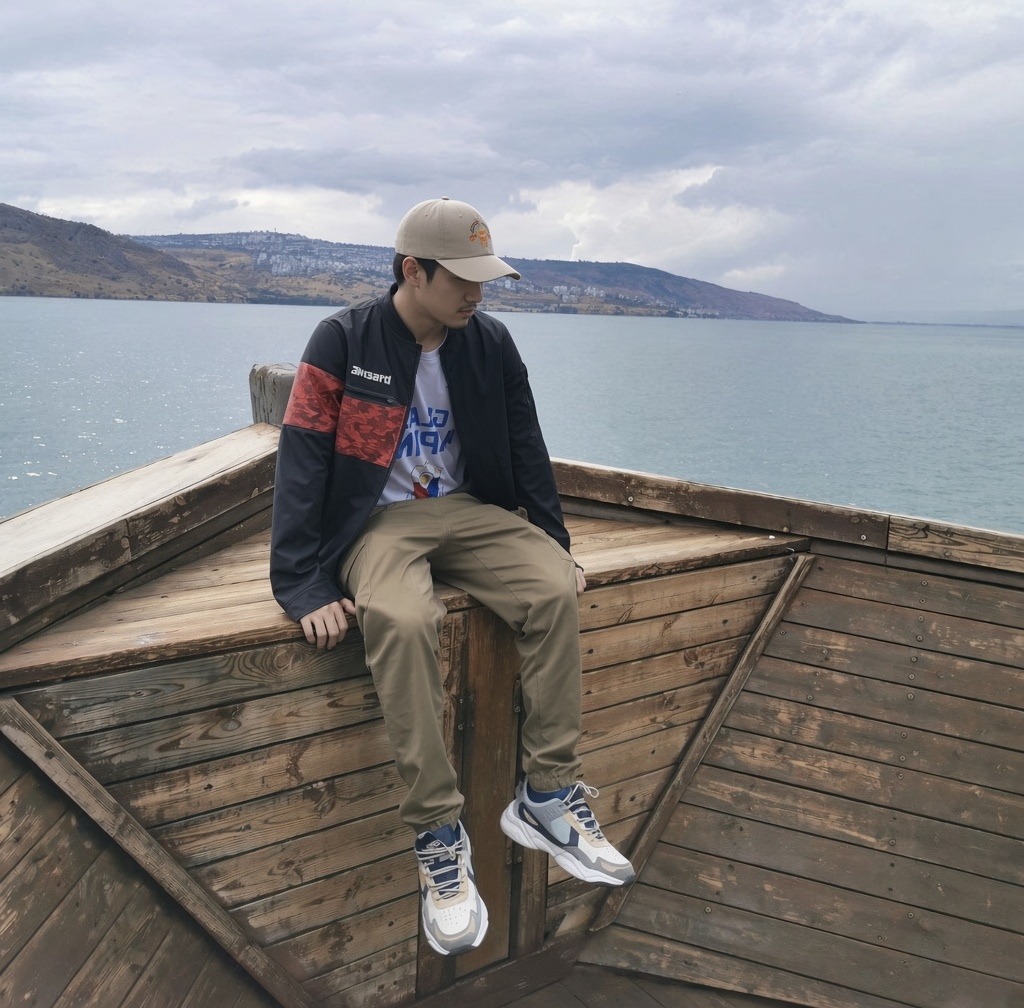
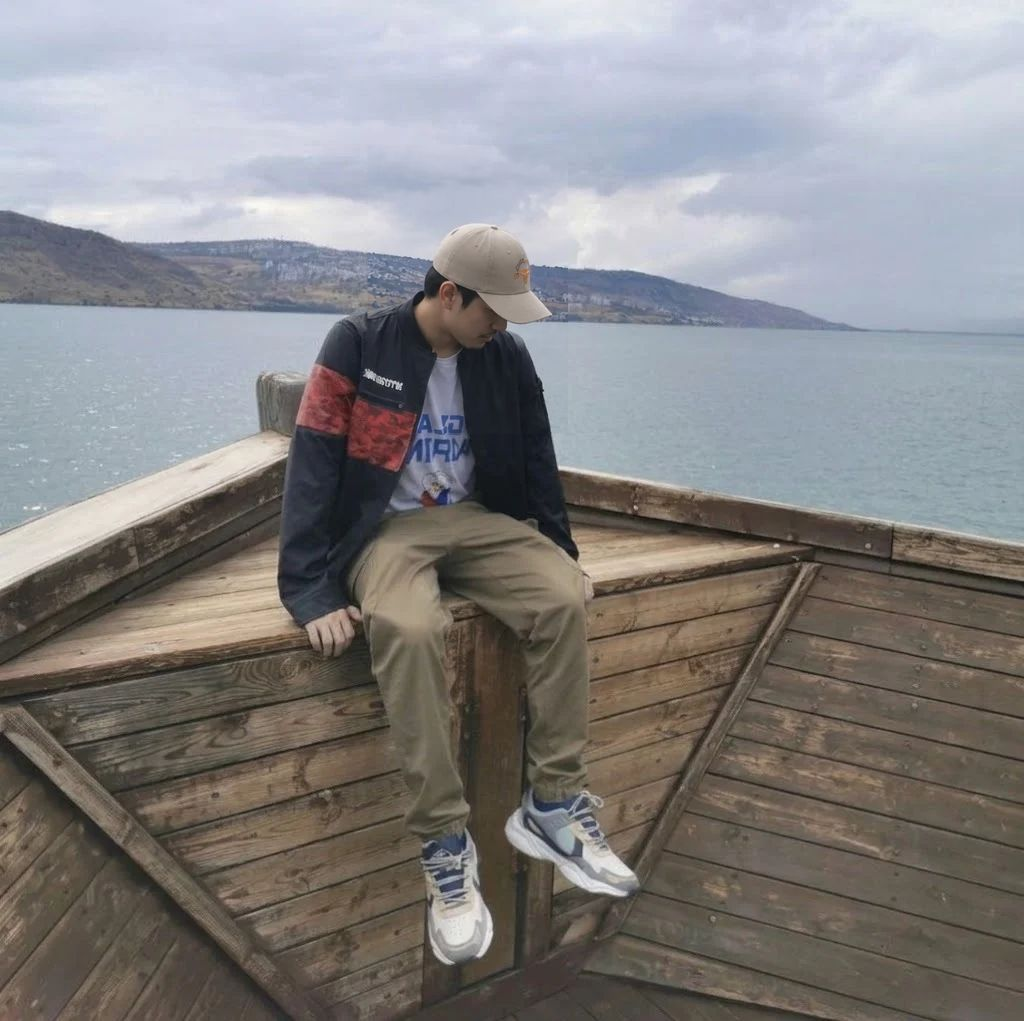
Use updated directional portrait images

diff --git a/app/routes/home/profile-portrait.jsx b/app/routes/home/profile-portrait.jsx
@@ -1,18 +1,14 @@
 import { useEffect, useRef, useState } from 'react';
 import front from '~/assets/me-front-facing.jpg';
-import left from '~/assets/me-left-facing.jpg';
+import left from '~/assets/me-left-facing.png';
 import right from '~/assets/me-right-facing.jpg';
 import up from '~/assets/me-up-facing.jpg';
 import down from '~/assets/me-down-facing.jpg';
 import upRight from '~/assets/me-up-right-facing.jpg';
-import downRight from '~/assets/me-down-right-facing.jpg';
+import downRight from '~/assets/me-down-right-facing.png';
 import styles from './profile.module.css';
 
 const portraits = { front, left, right, up, down, upRight, downRight };
-const alignment = {
-  left: { '--pose-x': '2%', '--pose-y': '-1%' },
-  downRight: { '--pose-x': '0.5%', '--pose-y': '1%' },
-};
 
 export const ProfilePortrait = () => {
   const container = useRef(null);
@@ -105,7 +101,6 @@ export const ProfilePortrait = () => {
         (pose === 'front' || preload) && (
           <img
             className={styles.portraitPose}
-            style={alignment[pose]}
             key={pose}
             src={source}
             alt={pose === 'front' ? 'Jules Lee at the Galilean Sea' : ''}

diff --git a/app/routes/home/profile.module.css b/app/routes/home/profile.module.css
@@ -103,7 +103,6 @@
   z-index: 1;
   display: block;
   object-fit: fill;
-  transform: translate(var(--pose-x, 0%), var(--pose-y, 0%));
   opacity: 0;
   pointer-events: none;
   transition: opacity 140ms ease-out;
